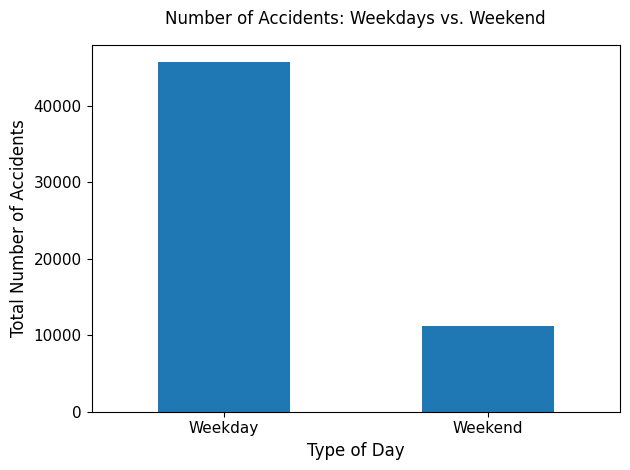
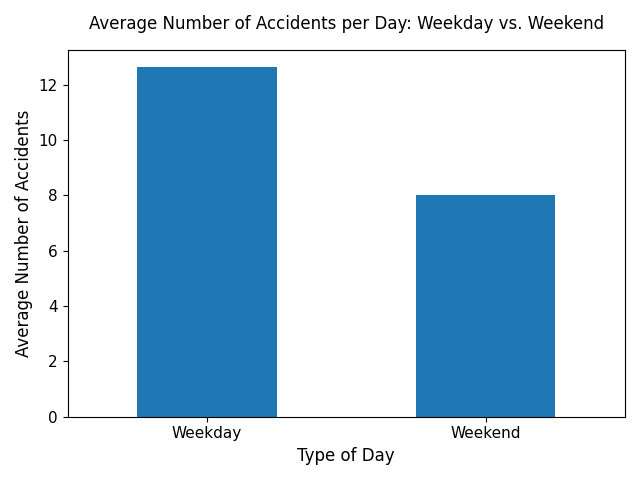
Fixed teachers comments

Changed region(s): [[0.0, 0.0298, 0.9952, 0.9234], [0.4524, 0.9234, 0.6333, 0.983]]

diff --git a/src/data_parser.py b/src/data_parser.py
@@ -65,20 +65,20 @@ def prepare_data(df):
 
 
 def plot_weekday_vs_weekend(df):
-    """Plots the number of accidents for weekdays vs. weekends."""
+    """Plots the average number of accidents for weekdays vs. weekends."""
+    daily_data = df.groupby(df['date'].dt.date).agg(count=('date', 'size'), day_type=('day_type', 'first'))
+    avg_counts = daily_data.groupby('day_type')['count'].mean()
+    avg_counts = avg_counts.reindex(['Weekday', 'Weekend'])
     plt.figure()
-    weekday_weekend_counts = df['day_type'].value_counts()
-    weekday_weekend_counts.plot(kind='bar')
-    plt.title('Number of Accidents: Weekdays vs. Weekend', fontsize=12, pad=15)
+    avg_counts.plot(kind='bar')
+    plt.title('Average Number of Accidents per Day: Weekday vs. Weekend', fontsize=12, pad=15)
     plt.xlabel('Type of Day', fontsize=12)
-    plt.ylabel('Total Number of Accidents', fontsize=12)
+    plt.ylabel('Average Number of Accidents', fontsize=12)
     plt.xticks(rotation=0, fontsize=11)
     plt.yticks(fontsize=11)
     plt.tight_layout()
     plt.show()
     plt.close()
-
-
 def plot_accidents_by_day(df):
     """Plots the number of accidents for each day of the week."""
     plt.figure()
@@ -161,6 +161,34 @@ def perform_t_test(df):
         print("Záver: Nepodarilo sa preukázať štatisticky významný rozdiel.")
 
 
+def perform_seasonality_t_test(df):
+    """Performs t-test of the seasonality and prints the results."""
+    summer_df = df[df['season'] == 'Summer']
+    winter_df = df[df['season'] == 'Winter']
+    summer_daily_counts = summer_df.groupby(summer_df['date'].dt.date).size()
+    winter_daily_counts = winter_df.groupby(winter_df['date'].dt.date).size()
+    mean_summer = summer_daily_counts.mean()
+    mean_winter = winter_daily_counts.mean()
+
+    t_stat, p_value = stats.ttest_ind(summer_daily_counts, winter_daily_counts, equal_var=False)
+
+    print("Hypotéza: Líši sa priemerný denný počet nehôd medzi letom a zimou?\n")
+    print(f"Priemerný počet nehôd (leto): {mean_summer}")
+    print(f"Priemerný počet nehôd (zima): {mean_winter}\n")
+    print(f"Vypočítaná t-štatistika: {t_stat}")
+    print(f"P-hodnota (p-value): {p_value}\n")
+
+    significance_level = 0.05
+    if p_value < significance_level:
+        print(f"P-hodnota je menšia ako nami zvolená hladina významnosti α ({significance_level}).")
+        print("Preto nulovú hypotézu (H₀) zamietame.")
+        print("Záver: Rozdiel v priemernom počte nehôd medzi letom a zimou je štatisticky významný.")
+    else:
+        print(f"P-hodnota je väčšia ako nami zvolená hladina významnosti α ({significance_level}).")
+        print("Preto nulovú hypotézu (H₀) nezamietame.")
+        print("Záver: Nepodarilo sa preukázať štatisticky významný rozdiel.")
+
+
 def main():
     file_path = '../data/data.csv'
     file_data = load_data(file_path)
@@ -171,6 +199,8 @@ def main():
         plot_accidents_by_season(df_prepared)
         plot_hourly_trend(df_prepared)
         perform_t_test(df_prepared)
+        perform_seasonality_t_test(df_prepared)
+
 
 
 if __name__ == "__main__":

diff --git a/README.md b/README.md
@@ -86,6 +86,19 @@ Graf porovnáva celkový počet nehôd v jednotlivých ročných obdobiach.
 Paradoxne tento graf ukazuje presný opak. Možným vysvetlením je, že počas Vianoc a zimných prázdnin je v Brne menej ľudí a teda aj menej áut.
 Menej áut na cestách tak zrejme zníži počet nehôd viac, ako ho zvýši zlé počasie.
 
+Nulová hypotéza: Líši sa priemerný denný počet nehôd medzi letom a zimou?
+
+Priemerný počet nehôd (leto): 11.647843137254903
+Priemerný počet nehôd (zima): 10.209150326797385
+
+Vypočítaná t-štatistika: 5.58207688298294
+P-hodnota (p-value): 2.6333525643935338e-08
+
+P-hodnota je menšia ako nami zvolená hladina významnosti α (0.05)
+Preto nulovú hypotézu (H₀) zamietame
+Záver: Rozdiel v priemernom počte nehôd medzi letom a zimou je štatisticky významný.
+
+
 
 ## Štatistické testovanie hypotéz
 
